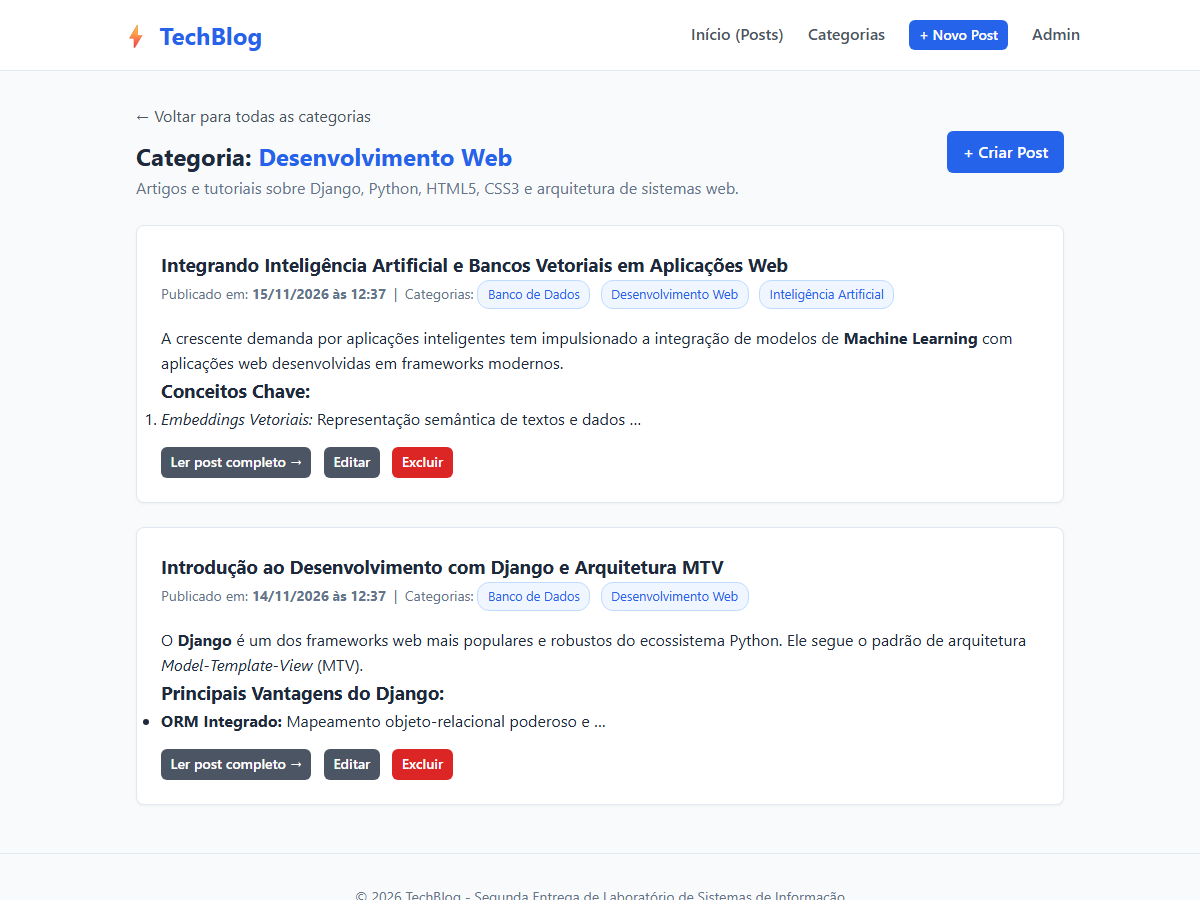
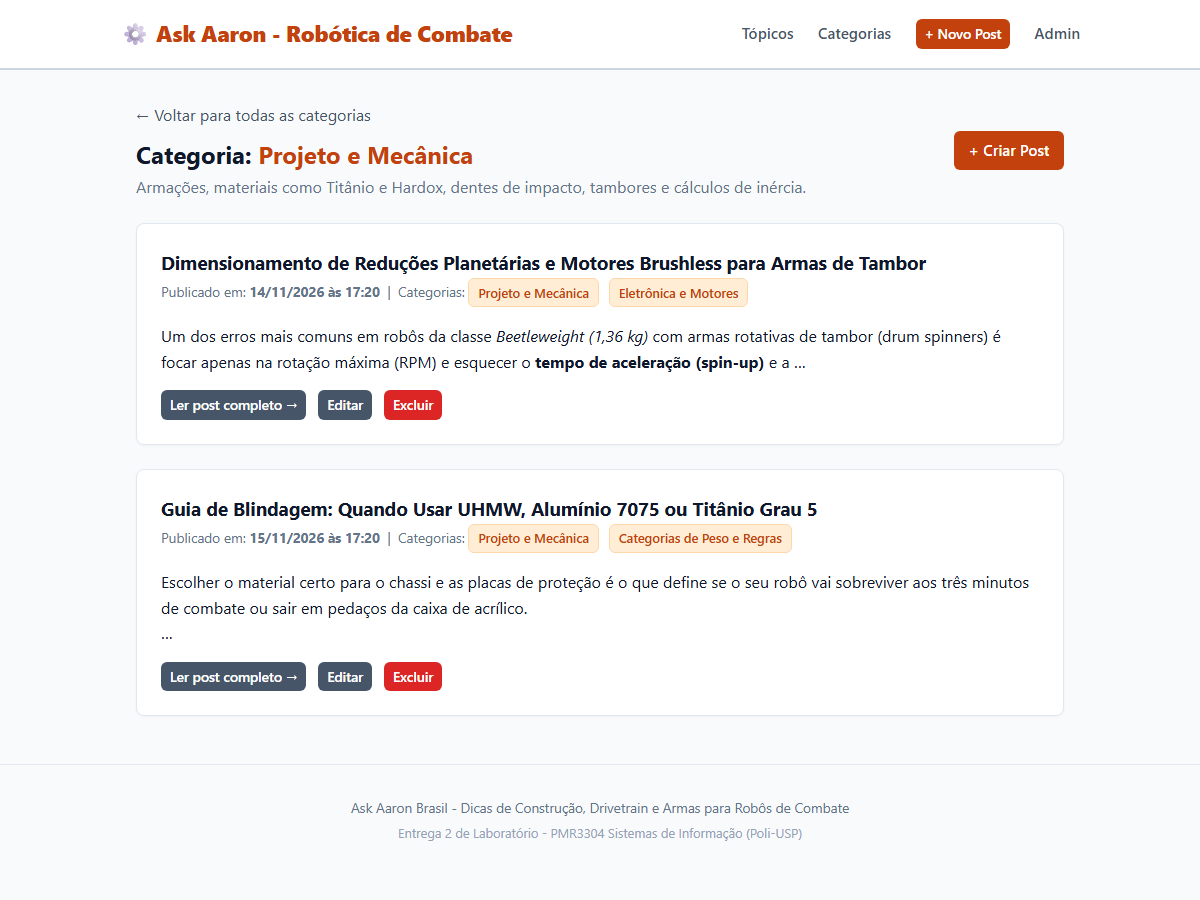
Atualizacao do tema para Ask Aaron - Robotica de Combate

diff --git a/templates/base.html b/templates/base.html
@@ -3,17 +3,17 @@
 <head>
     <meta charset="UTF-8">
     <meta name="viewport" content="width=device-width, initial-scale=1.0">
-    <title>{% block title %}Meu Blog{% endblock %} - TechBlog</title>
+    <title>{% block title %}Ask Aaron - Robótica de Combate{% endblock %}</title>
     <style>
         :root {
-            --primary: #2563eb;
-            --primary-hover: #1d4ed8;
+            --primary: #c2410c;
+            --primary-hover: #9a3412;
             --danger: #dc2626;
             --danger-hover: #b91c1c;
-            --secondary: #4b5563;
+            --secondary: #475569;
             --bg: #f8fafc;
             --card-bg: #ffffff;
-            --text: #1e293b;
+            --text: #0f172a;
             --text-muted: #64748b;
             --border: #e2e8f0;
         }
@@ -26,7 +26,7 @@
         }
         header {
             background-color: var(--card-bg);
-            border-bottom: 1px solid var(--border);
+            border-bottom: 2px solid #cbd5e1;
             padding: 1rem 2rem;
             position: sticky;
             top: 0;
@@ -40,30 +40,32 @@
             align-items: center;
         }
         .logo {
-            font-size: 1.5rem;
-            font-weight: 700;
+            font-size: 1.4rem;
+            font-weight: 800;
             color: var(--primary);
             text-decoration: none;
+            letter-spacing: -0.5px;
         }
         nav a {
             margin-left: 1.25rem;
             text-decoration: none;
             color: var(--secondary);
-            font-weight: 500;
-            transition: color 0.2s;
+            font-weight: 600;
+            font-size: 0.95rem;
         }
         nav a:hover {
             color: var(--primary);
         }
         .btn {
             display: inline-block;
-            padding: 0.5rem 1rem;
+            padding: 0.45rem 0.9rem;
             border-radius: 6px;
-            font-weight: 500;
+            font-weight: 600;
             text-decoration: none;
             cursor: pointer;
             border: none;
-            transition: background-color 0.2s;
+            transition: background-color 0.15s;
+            font-size: 0.95rem;
         }
         .btn-primary {
             background-color: var(--primary);
@@ -84,8 +86,8 @@
             color: white !important;
         }
         .btn-sm {
-            padding: 0.25rem 0.6rem;
-            font-size: 0.875rem;
+            padding: 0.25rem 0.55rem;
+            font-size: 0.85rem;
         }
         main {
             max-width: 960px;
@@ -98,7 +100,7 @@
             border-radius: 8px;
             padding: 1.5rem;
             margin-bottom: 1.5rem;
-            box-shadow: 0 1px 3px rgba(0,0,0,0.05);
+            box-shadow: 0 1px 3px rgba(0,0,0,0.04);
         }
         footer {
             text-align: center;
@@ -106,25 +108,26 @@
             color: var(--text-muted);
             border-top: 1px solid var(--border);
             margin-top: 3rem;
-            font-size: 0.875rem;
+            font-size: 0.85rem;
         }
         .badge {
             display: inline-block;
-            background-color: #eff6ff;
+            background-color: #ffedd5;
             color: var(--primary);
-            padding: 0.2rem 0.6rem;
-            border-radius: 12px;
+            padding: 0.2rem 0.55rem;
+            border-radius: 6px;
             font-size: 0.8rem;
+            font-weight: 600;
             text-decoration: none;
             margin-right: 0.4rem;
-            border: 1px solid #bfdbfe;
+            border: 1px solid #fed7aa;
         }
         .badge:hover {
-            background-color: #dbeafe;
+            background-color: #fed7aa;
         }
         .post-meta {
             color: var(--text-muted);
-            font-size: 0.875rem;
+            font-size: 0.85rem;
             margin-bottom: 1rem;
         }
         .form-group {
@@ -133,7 +136,7 @@
         .form-group label {
             display: block;
             margin-bottom: 0.35rem;
-            font-weight: 500;
+            font-weight: 600;
         }
         .form-control, input[type="text"], textarea, select {
             width: 100%;
@@ -146,16 +149,16 @@
         .form-control:focus, input[type="text"]:focus, textarea:focus, select:focus {
             outline: none;
             border-color: var(--primary);
-            box-shadow: 0 0 0 3px rgba(37,99,235,0.15);
+            box-shadow: 0 0 0 3px rgba(194, 65, 12, 0.15);
         }
     </style>
 </head>
 <body>
     <header>
         <div class="nav-container">
-            <a href="{% url 'post_list' %}" class="logo">⚡ TechBlog</a>
+            <a href="{% url 'post_list' %}" class="logo">⚙ Ask Aaron - Robótica de Combate</a>
             <nav>
-                <a href="{% url 'post_list' %}">Início (Posts)</a>
+                <a href="{% url 'post_list' %}">Tópicos</a>
                 <a href="{% url 'category_list' %}">Categorias</a>
                 <a href="{% url 'post_create' %}" class="btn btn-primary btn-sm">+ Novo Post</a>
                 <a href="/admin/" target="_blank">Admin</a>
@@ -169,7 +172,8 @@
     </main>
 
     <footer>
-        <p>&copy; 2026 TechBlog - Segunda Entrega de Laboratório de Sistemas de Informação</p>
+        <p>Ask Aaron Brasil - Dicas de Construção, Drivetrain e Armas para Robôs de Combate</p>
+        <p style="margin-top: 0.25rem; font-size: 0.8rem; color: #94a3b8;">Entrega 2 de Laboratório - PMR3304 Sistemas de Informação (Poli-USP)</p>
     </footer>
 </body>
 </html>

diff --git a/relatorio_docs/generate_pdf_report.py b/relatorio_docs/generate_pdf_report.py
@@ -150,7 +150,7 @@ story.append(Paragraph("DEPARTAMENTO DE ENGENHARIA MECATRÔNICA E SISTEMAS MECÂ
 story.append(Paragraph("PMR3304 - SISTEMAS DE INFORMAÇÃO", ParagraphStyle('Disc', parent=styles['Normal'], fontName='Helvetica-Bold', fontSize=10, alignment=1, textColor=colors.HexColor("#64748b"), spaceAfter=50)))
 
 story.append(Paragraph("SEGUNDA ENTREGA DE LABORATÓRIO", subtitle_style))
-story.append(Paragraph("Aplicação CRUD com Django, Sistema de Comentários, Categorias e Consultas SQL", title_style))
+story.append(Paragraph("Aplicação CRUD com Django: Blog Ask Aaron (Robótica de Combate), Comentários, Categorias e SQL", title_style))
 story.append(Spacer(1, 25))
 
 meta_data = [
